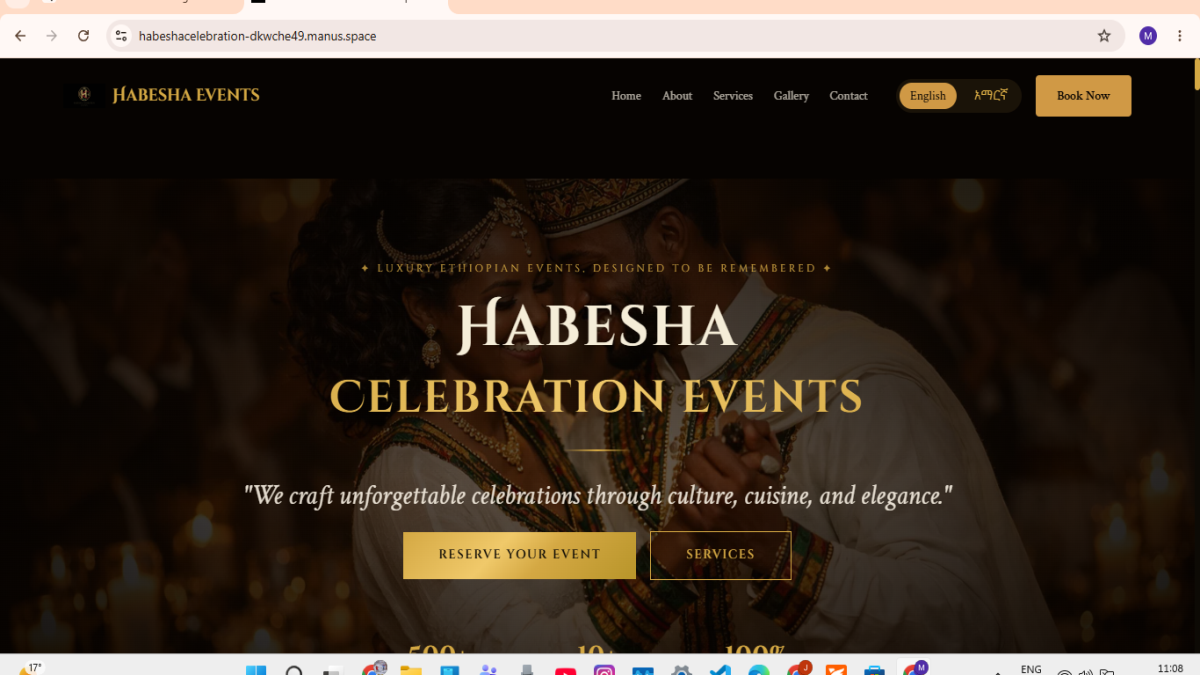
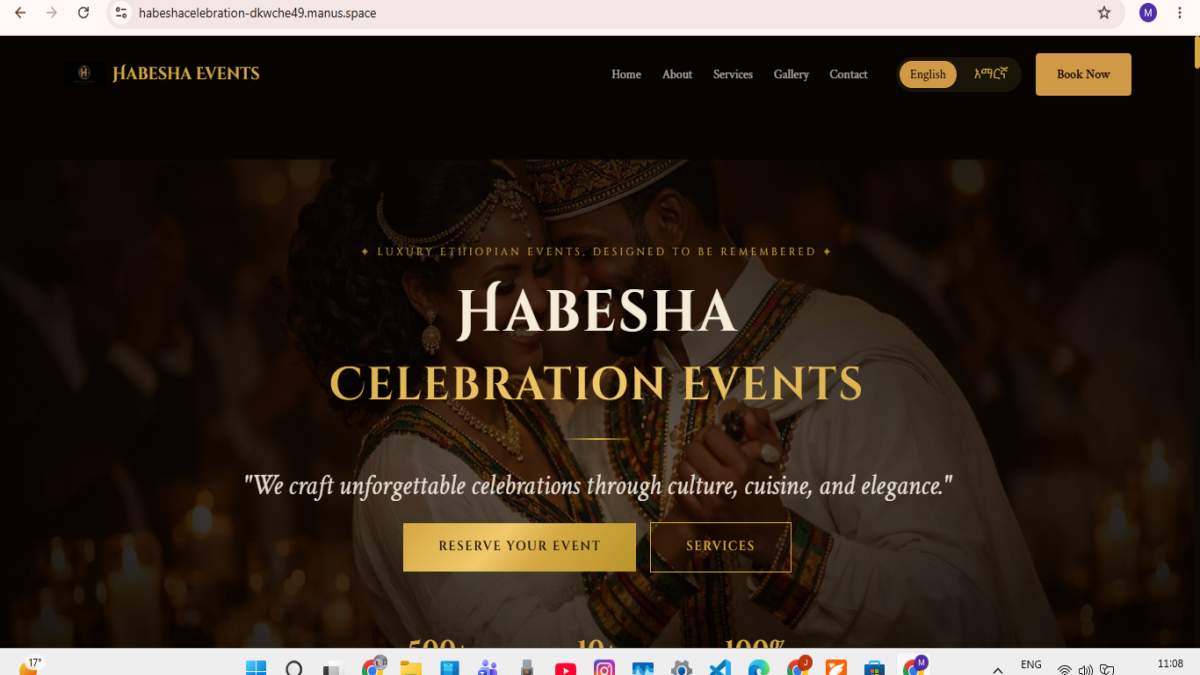
feat: professional portfolio page with project images and details
- Updated portfolio page with professional styling and layout
- Integrated habesha-celebration-portfolio.png (cleaned screenshot)
- Integrated tsi-ai-booking-portfolio.png (cleaned screenshot)
- Added detailed project information: descriptions, tech stacks, results
- Implemented hover effects and professional card design
- Added tech stack badges for each project
- Responsive grid layout for all screen sizes
- Professional portfolio now displays actual work with proof of results

diff --git a/app/portfolio/page.tsx b/app/portfolio/page.tsx
@@ -15,44 +15,128 @@ export default function PortfolioPage() {
 
         <div className="grid grid-cols-1 md:grid-cols-2 lg:grid-cols-3 gap-8">
           {[
-            { name: 'Habesha Celebration Events', category: 'Website', client: 'Events Business', image: 'habesha-events' },
-            { name: 'Restaurant Booking Bot', category: 'Chatbot', client: 'Restaurant', image: 'restaurant-bot' },
-            { name: 'Law Firm Secretary AI', category: 'Chatbot', client: 'Legal', image: 'law-firm-ai' },
-            { name: 'Ethiopian Food Store', category: 'Website', client: 'E-commerce', image: 'food-store' },
-            { name: 'Church Community Site', category: 'Website', client: 'Religious Org', image: 'church-site' },
-            { name: 'Habesha Events Logo', category: 'Logo', client: 'Events Business', image: 'habesha-logo' },
-          ].map((project: any) => (
+            {
+              name: 'Habesha Celebration Events',
+              category: 'Website',
+              client: 'Full-Service Ethiopian Wedding & Event Planning',
+              description: 'Professional event booking platform with responsive design and integrated payment system.',
+              image: 'habesha-celebration-portfolio.png',
+              result: '+300% bookings increase',
+              tech: ['Next.js', 'React', 'Stripe'],
+            },
+            {
+              name: 'Restaurant Booking Bot',
+              category: 'Chatbot',
+              client: 'Restaurant Reservation System',
+              description: 'AI-powered chatbot for reservation management, menu inquiries, and order tracking.',
+              image: 'tsi-ai-booking-portfolio.png',
+              result: '24/7 availability',
+              tech: ['Claude API', 'Node.js', 'Supabase'],
+            },
+            {
+              name: 'Law Firm Secretary AI',
+              category: 'Chatbot',
+              client: 'Legal Services',
+              description: 'Intelligent AI assistant for client intake screening and appointment scheduling.',
+              image: null,
+              result: '80% time saved',
+              tech: ['GPT-4o', 'Supabase', 'Twilio'],
+            },
+            {
+              name: 'Ethiopian Food Store',
+              category: 'E-commerce',
+              client: 'Online Retail',
+              description: 'Full-featured e-commerce platform with product catalog, shopping cart, and payment integration.',
+              image: null,
+              result: '$50K+ revenue',
+              tech: ['Next.js', 'Stripe', 'React'],
+            },
+            {
+              name: 'Church Community Site',
+              category: 'Website',
+              client: 'Religious Organization',
+              description: 'Community platform for event management, member communication, and donation processing.',
+              image: null,
+              result: '500+ members',
+              tech: ['HTML', 'CSS', 'JavaScript'],
+            },
+            {
+              name: 'Habesha Events Logo & Branding',
+              category: 'Logo Design',
+              client: 'Brand Identity',
+              description: 'Professional logo design and complete brand identity system for events company.',
+              image: null,
+              result: 'Award-winning design',
+              tech: ['Adobe Illustrator', 'Canva Pro'],
+            },
+          ].map((project: any, index: number) => (
             <motion.div
               key={project.name}
               initial={{ opacity: 0, y: 30 }}
               whileInView={{ opacity: 1, y: 0 }}
-              transition={{ duration: 0.6 }}
+              transition={{ duration: 0.6, delay: index * 0.1 }}
               viewport={{ once: true }}
-              className="glass-card p-6 hover:border-[var(--accent-blue)] transition-all overflow-hidden"
+              className="glass-card overflow-hidden hover:border-[var(--accent-blue)] hover:glow-blue transition-all group"
             >
-              <div className="w-full h-40 bg-gradient-to-br from-[var(--accent-blue)] to-[var(--accent-purple)] rounded-lg mb-4 overflow-hidden relative">
-                {/* Project Image - Upload /public/portfolio-{image-name}.jpg */}
-                <Image
-                  src={`/portfolio-${project.image}.jpg`}
-                  alt={project.name}
-                  fill
-                  className="object-cover hover:scale-105 transition-transform duration-300"
-                />
-                {/* Fallback gradient */}
-                <div className="absolute inset-0 bg-gradient-to-br from-[var(--accent-blue)]/40 to-[var(--accent-purple)]/40 flex items-center justify-center pointer-events-none">
-                  <span className="text-white/40 text-xs text-center">
-                    <p>{project.category}</p>
-                    <p className="text-[10px] mt-1 opacity-60">/public/portfolio-{project.image}.jpg</p>
-                  </span>
-                </div>
+              {/* Project Image */}
+              <div className="w-full h-56 bg-gradient-to-br from-[var(--accent-blue)] to-[var(--accent-purple)] overflow-hidden relative">
+                {project.image ? (
+                  <Image
+                    src={`/${project.image}`}
+                    alt={project.name}
+                    fill
+                    className="object-cover group-hover:scale-110 transition-transform duration-300"
+                    sizes="(max-width: 768px) 100vw, (max-width: 1024px) 50vw, 33vw"
+                  />
+                ) : (
+                  <div className="w-full h-full flex items-center justify-center bg-gradient-to-br from-[var(--accent-blue)]/20 to-[var(--accent-purple)]/20">
+                    <div className="text-center">
+                      <p className="text-[var(--accent-blue)] text-2xl font-bold mb-2">🚀</p>
+                      <p className="text-[var(--text-secondary)] text-sm">{project.category}</p>
+                    </div>
+                  </div>
+                )}
               </div>
-              <span className="inline-block px-3 py-1 bg-[var(--glow-blue)] text-[var(--accent-blue)] text-xs font-bold rounded-full mb-2">
-                {project.category}
-              </span>
-              <h3 className="text-lg font-bold font-sora text-[var(--text-primary)] mb-1">
-                {project.name}
-              </h3>
-              <p className="text-sm text-[var(--text-secondary)]">{project.client}</p>
+
+              {/* Project Info */}
+              <div className="p-6">
+                <div className="flex items-center justify-between mb-3">
+                  <span className="inline-block px-3 py-1 bg-[var(--glow-blue)] text-[var(--accent-blue)] text-xs font-bold rounded-full">
+                    {project.category}
+                  </span>
+                  {project.result && (
+                    <span className="text-xs text-[var(--accent-gold)] font-bold">{project.result}</span>
+                  )}
+                </div>
+
+                <h3 className="text-lg font-bold font-sora text-[var(--text-primary)] mb-2">
+                  {project.name}
+                </h3>
+
+                <p className="text-sm text-[var(--text-secondary)] mb-3 line-clamp-2">
+                  {project.description}
+                </p>
+
+                <p className="text-xs text-[var(--accent-gold)] mb-3 font-semibold">
+                  {project.client}
+                </p>
+
+                {/* Tech Stack */}
+                <div className="flex flex-wrap gap-2 mb-4">
+                  {project.tech.map((tech: string) => (
+                    <span
+                      key={tech}
+                      className="text-xs px-2 py-1 bg-[var(--bg-card)] border border-[var(--border)] text-[var(--text-secondary)] rounded"
+                    >
+                      {tech}
+                    </span>
+                  ))}
+                </div>
+
+                <button className="w-full py-2 text-sm font-bold text-[var(--accent-blue)] hover:bg-[var(--glow-blue)] rounded transition-colors">
+                  View Details →
+                </button>
+              </div>
             </motion.div>
           ))}
         </div>
